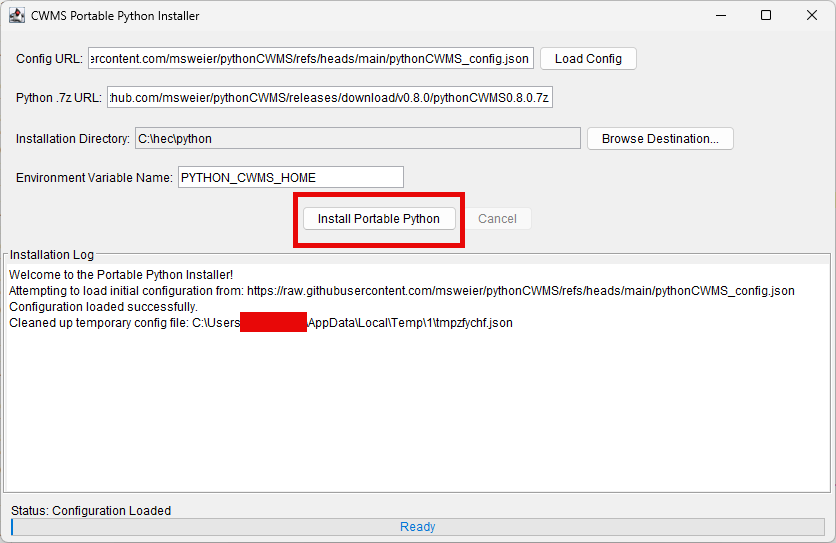
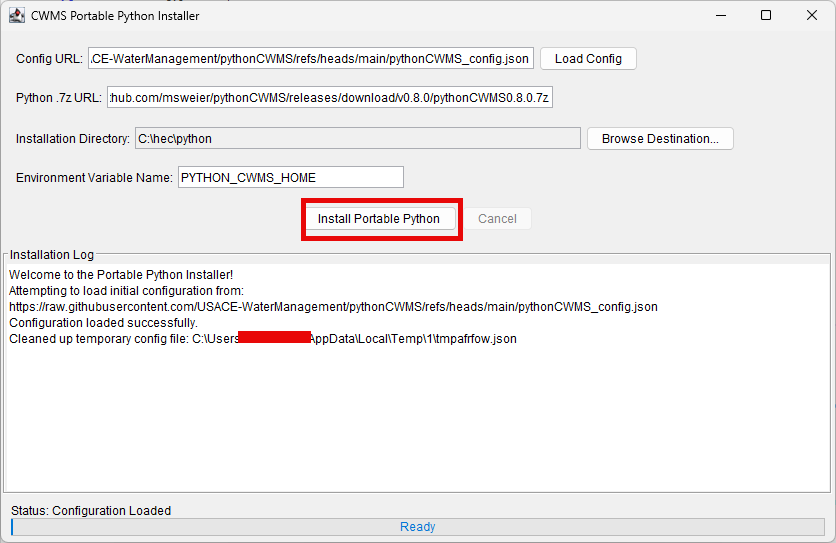
update repo links

diff --git a/jython_scripts/install_python.py b/jython_scripts/install_python.py
@@ -28,8 +28,7 @@ class InstallerGUI(JFrame):
 
         # --- Default hardcoded URL for the configuration file ---
         # This is the starting point for the Config URL input field.
-        self.default_config_url = "https://raw.githubusercontent.com/msweier/pythonCWMS/refs/heads/main/pythonCWMS_config.json" # <--- IMPORTANT: CHANGE THIS URL!
-        # --------------------------------------------------------
+        self.default_config_url = "https://raw.githubusercontent.com/USACE-WaterManagement/pythonCWMS/refs/heads/main/pythonCWMS_config.json"
 
         # Initialize these as None; they will be populated from the config file
         self.python_7z_url = None
